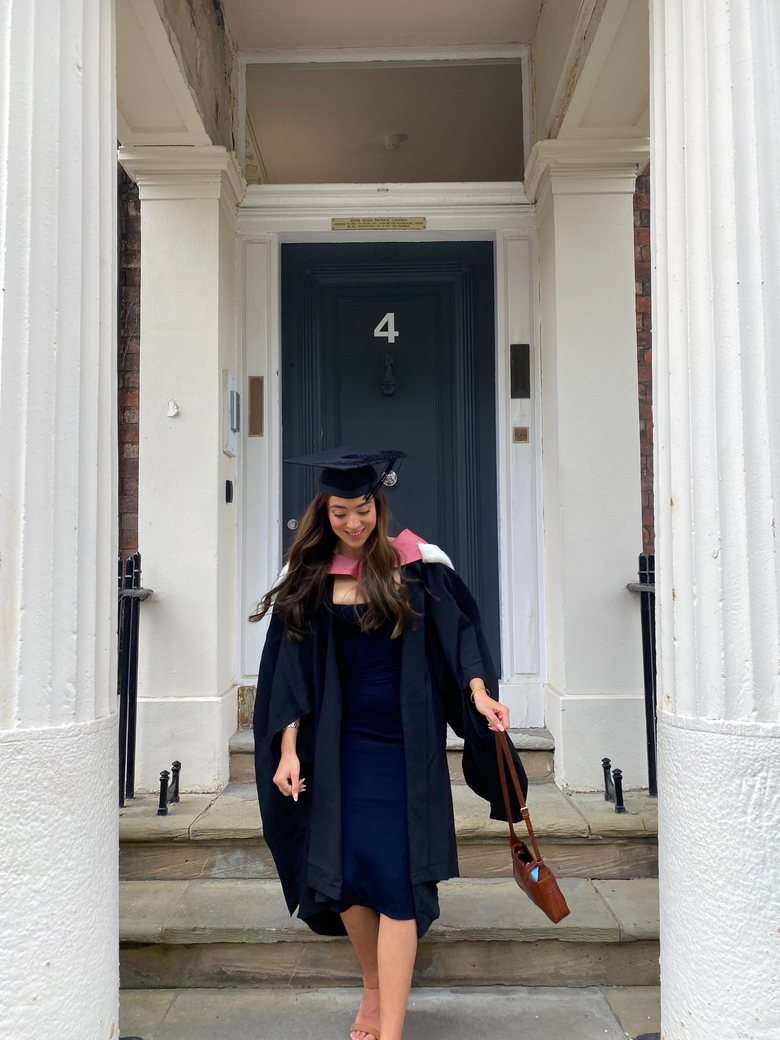
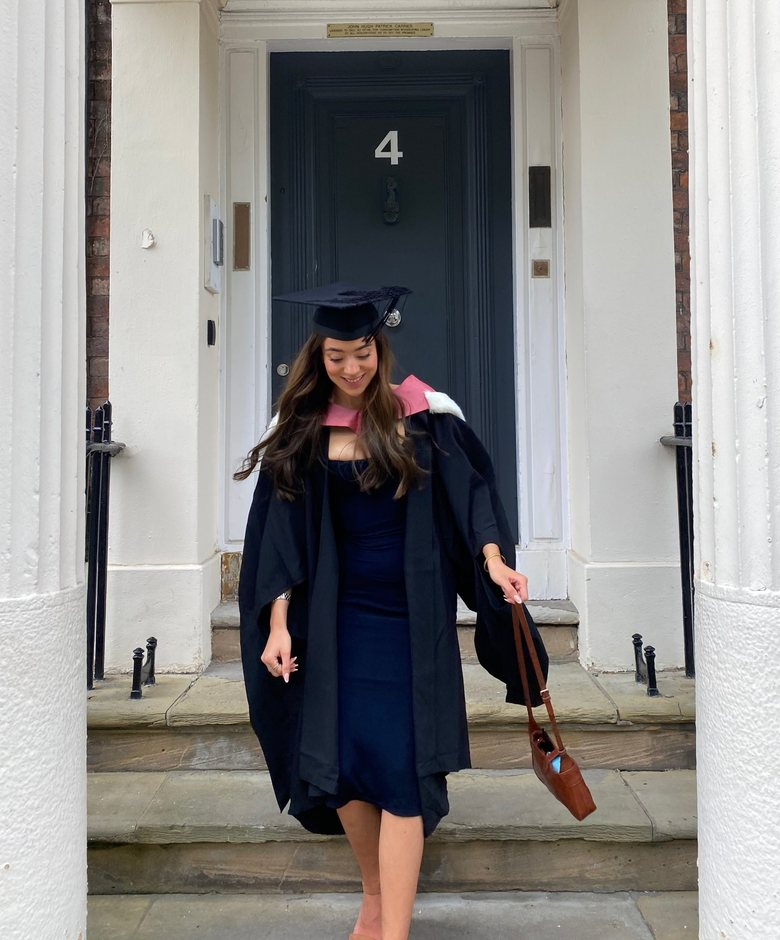
About photo: use Jamie's chosen crop
Claude-Session: https://claude.ai/code/session_01XMM1gFXEEkWGnjkQQjZrsx

diff --git a/fr/index.html b/fr/index.html
@@ -274,7 +274,7 @@
 
 <section style="background: #FFFFFF; border-top: 1px solid #E8E4DF">
 <div style="max-width: 1120px; margin: 0 auto; padding: 72px 32px; display: flex; flex-wrap: wrap; align-items: flex-start; gap: 40px">
-<img class="reveal" src="../photo.jpg" alt="Niamh Owusu lors de sa remise de diplôme" width="260" height="347" style="flex: 0 0 260px; width: 260px; height: auto; margin-top: 10px; border-radius: 12px">
+<img class="reveal" src="../photo.jpg" alt="Niamh Owusu lors de sa remise de diplôme" width="260" height="313" style="flex: 0 0 260px; width: 260px; height: auto; margin-top: 10px; border-radius: 12px">
 <div style="flex: 1 1 420px; display: flex; flex-direction: column; gap: 16px">
 <h2 id="about" style="margin: 0; font-family: 'Lora', Georgia, serif; font-weight: 500; font-size: 38px; letter-spacing: -0.01em">À propos de moi</h2>
 <div style="display: flex; flex-direction: column; gap: 12px"><p style="margin: 0">Je suis traductrice basée à Manchester. Je travaille principalement du français vers l’anglais.</p><p style="margin: 0">Après avoir étudié le français, l’allemand et l’italien en licence, j’ai vécu et étudié en Autriche et en Italie, et effectué un stage dans le secteur de l’hôtellerie en France.</p><p style="margin: 0">Je viens d’obtenir un master en traduction et interprétation à l’Université de Manchester, qui m’a permis d’explorer aussi bien la traduction pour les industries créatives que celle destinée aux entreprises et aux institutions.</p></div>

diff --git a/index.html b/index.html
@@ -287,7 +287,7 @@
 <!-- ===== ABOUT ===== -->
 <section style="background: #FFFFFF; border-top: 1px solid #E8E4DF">
 <div style="max-width: 1120px; margin: 0 auto; padding: 72px 32px; display: flex; flex-wrap: wrap; align-items: flex-start; gap: 40px">
-<img class="reveal" src="photo.jpg" alt="Niamh Owusu at her graduation" width="260" height="347" style="flex: 0 0 260px; width: 260px; height: auto; margin-top: 10px; border-radius: 12px">
+<img class="reveal" src="photo.jpg" alt="Niamh Owusu at her graduation" width="260" height="313" style="flex: 0 0 260px; width: 260px; height: auto; margin-top: 10px; border-radius: 12px">
 <div style="flex: 1 1 420px; display: flex; flex-direction: column; gap: 16px">
 <h2 id="about" style="margin: 0; font-family: 'Lora', Georgia, serif; font-weight: 500; font-size: 38px; letter-spacing: -0.01em">About me</h2>
 <div style="display: flex; flex-direction: column; gap: 12px"><p style="margin: 0">I am a Manchester-based translator working primarily from French into English.</p><p style="margin: 0">Having studied French, German and Italian to an undergraduate level, I have lived and studied in Austria and Italy and completed a hospitality work placement in France.</p><p style="margin: 0">Most recently, I graduated with an MA in Translation and Interpreting at the University of Manchester, covering both translation for the creative industries and for businesses and institutions.</p></div>
